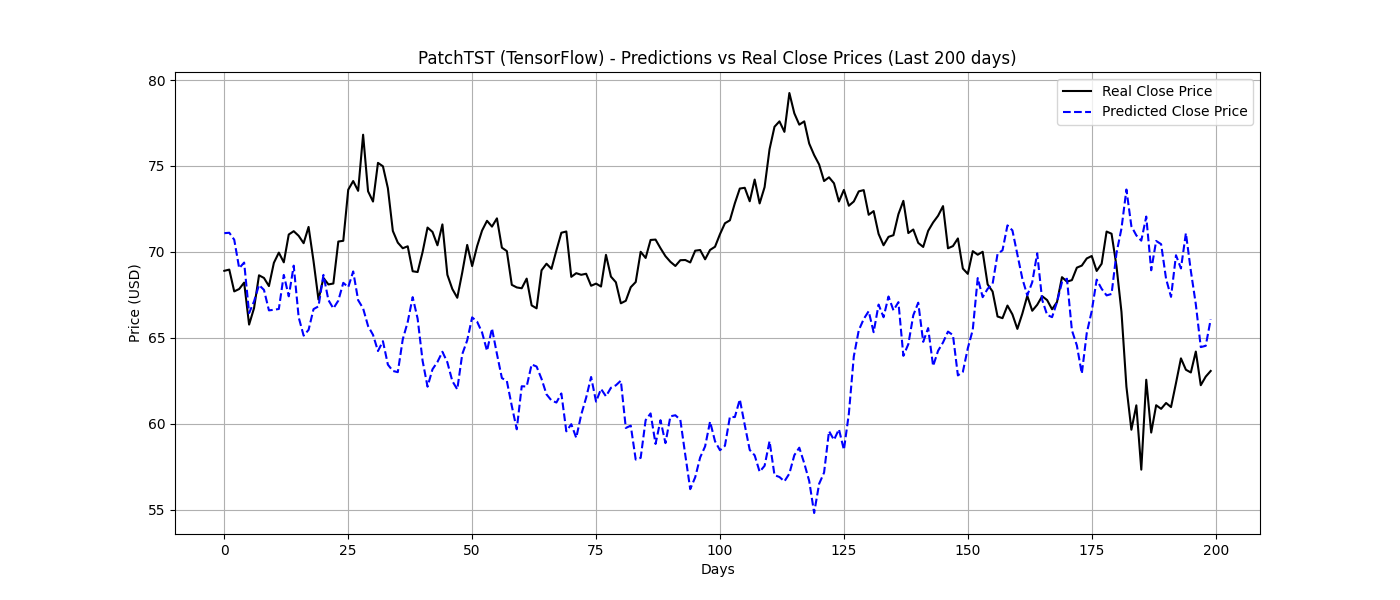
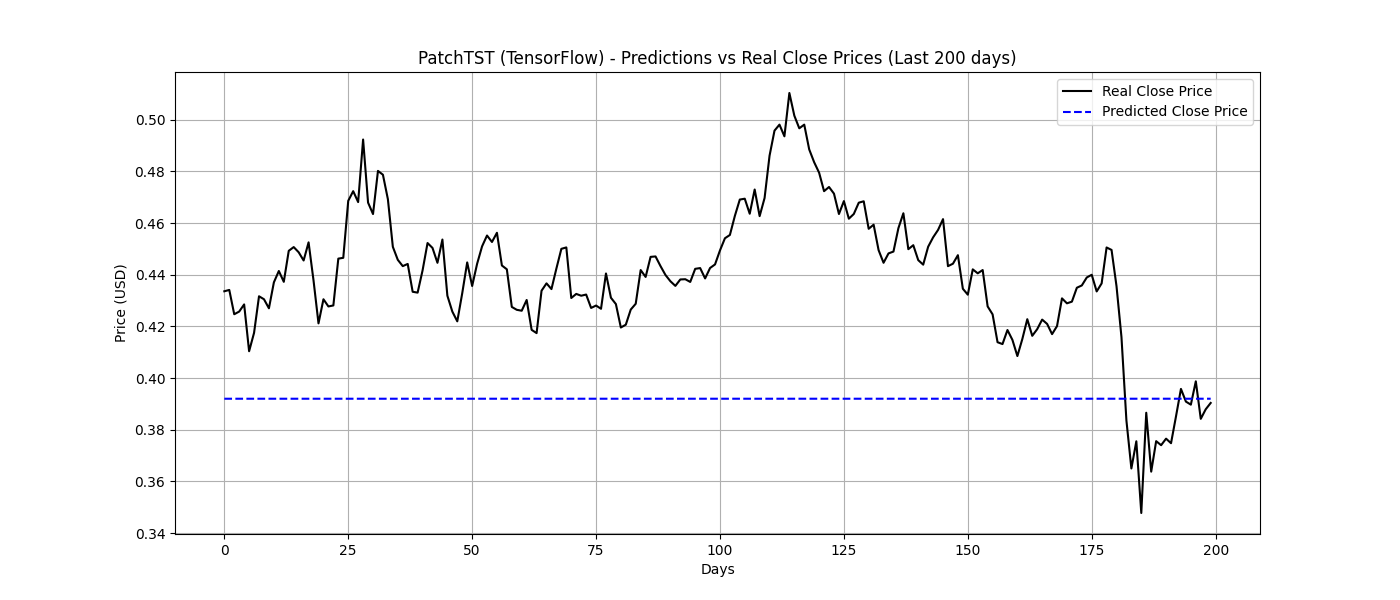
taking all over again

diff --git a/train_patchtst_tf.py b/train_patchtst_tf.py
@@ -6,14 +6,17 @@ import pickle
 import matplotlib.pyplot as plt
 from sklearn.preprocessing import MinMaxScaler
 from patchtst_tf_model import PatchTST, PatchEmbedding, TransformerEncoder
+from datetime import datetime
 
 # --------- CONFIGURACIÓN EXPERIMENTO ---------
-patch_len = 25
+patch_len = 15
 embed_dim = 512
-n_layers = 5
-dropout_rate = 0.3
-batch_size = 128
+n_layers = 4
+dropout_rate = 0.0
+batch_size = 64
 epochs = 30
+
+exp_num=9
 
 # Paths
 csv_path = "OIL_CRUDE/Id90/DataSet_lastPoppingColums.csv"
@@ -30,15 +33,20 @@ all_columns = df.columns.tolist()
 input_cols = all_columns[1:]  # Ignorar Date column
 target_col = 'Close'
 
-# --------- NORMALIZAR INPUTS ---------
-scaler = MinMaxScaler()
-df[input_cols] = scaler.fit_transform(df[input_cols])
+# --------- NORMALIZAR INPUTS Y TARGET ---------
+input_scaler = MinMaxScaler()
+df[input_cols] = input_scaler.fit_transform(df[input_cols])
 
-# Guardar scaler
+target_scaler = MinMaxScaler()
+df[[target_col]] = target_scaler.fit_transform(df[[target_col]])
+
+# Guardar scalers
 os.makedirs(os.path.dirname(scaler_save_path), exist_ok=True)
-with open(scaler_save_path, 'wb') as f:
-    pickle.dump(scaler, f)
-print(f"Scaler saved to: {scaler_save_path}")
+with open("Models/scaler_inputs.pkl", 'wb') as f:
+    pickle.dump(input_scaler, f)
+with open("Models/scaler_target.pkl", 'wb') as f:
+    pickle.dump(target_scaler, f)
+print("Scalers saved to: Models/scaler_inputs.pkl and scaler_target.pkl")
 
 # --------- PREPARAR DATA X, y ---------
 Seq_len = 80
@@ -68,19 +76,28 @@ model(dummy_input)
 
 model.compile(
     optimizer=tf.keras.optimizers.Adam(learning_rate=1e-3),
-    loss='mse',
+    loss='mae',
     metrics=['mae']
 )
 model.summary()
 
+
+fecha = datetime.now().strftime("%Y-%m-%d %H:%M:%S")
+
+os.makedirs(model_save_dir, exist_ok=True)
+
+"""if os.path.exists(experiments_log):
+    old = pd.read_csv(experiments_log)
+    exp_num = len(old) + 1
+else:
+    exp_num = 1"""
+
 # Model save path
-model_save_path = os.path.join(model_save_dir, f"best_patchtst_patch{patch_len}_embed{embed_dim}.keras")
+model_save_path = os.path.join(model_save_dir, f"patchtst_exp{exp_num}")
 
 # --------- CALLBACKS ---------
 callbacks = [
-    tf.keras.callbacks.EarlyStopping(patience=3, restore_best_weights=True),
-    tf.keras.callbacks.ModelCheckpoint(model_save_path, save_best_only=True),
-    tf.keras.callbacks.ReduceLROnPlateau(factor=0.5, patience=3)
+    tf.keras.callbacks.EarlyStopping(patience=3, restore_best_weights=True)
 ]
 
 # --------- ENTRENAR ---------
@@ -91,17 +108,15 @@ history = model.fit(
     callbacks=callbacks
 )
 
+model.export(model_save_path)
+
 # --------- EVALUACIÓN DIRECCIÓN ---------
 # Predicciones validación
 val_preds = model.predict(X_val)
 
 # Inverse transform
-close_idx = input_cols.index('Close')
-close_min = scaler.data_min_[close_idx]
-close_max = scaler.data_max_[close_idx]
-
-val_preds_real = val_preds.flatten() * (close_max - close_min) + close_min
-val_reals_real = y_val * (close_max - close_min) + close_min
+val_preds_real = target_scaler.inverse_transform(val_preds)
+val_reals_real = target_scaler.inverse_transform(y_val.reshape(-1, 1))
 
 # Direcciones
 pred_dirs = np.sign(val_preds_real[1:] - val_preds_real[:-1])
@@ -121,9 +136,11 @@ print(f"RMSE: {rmse:.4f}")
 print(f"Precisión Dirección: {direction_accuracy*100:.2f}%")
 
 # --------- GUARDAR RESULTADO EXPERIMENTO ---------
-os.makedirs(model_save_dir, exist_ok=True)
+
 
 exp_data = pd.DataFrame([{
+    "Experimento": exp_num,
+    "Fecha": fecha,
     "Patch_len": patch_len,
     "Embed_dim": embed_dim,
     "N_layers": n_layers,
@@ -152,5 +169,5 @@ plt.xlabel('Epoch')
 plt.ylabel('MSE Loss')
 plt.legend()
 plt.grid()
-plt.savefig(f"Plots/training_loss_patchtst_patch{patch_len}_embed{embed_dim}.png")
+plt.savefig(f"Plots/training_loss_exp{exp_num}.png")
 plt.show()

diff --git a/evaluate_patcht_Tf.py b/evaluate_patcht_Tf.py
@@ -7,28 +7,29 @@ import pickle
 from sklearn.preprocessing import MinMaxScaler
 from patchtst_tf_model import PatchTST, PatchEmbedding, TransformerEncoder
 
+exp=9
 # --------- CONFIGURACIÓN ---------
-model_path = "Models/best_patchtst_tf.keras"
-scaler_save_path = "Models/scaler_inputs.pkl"
+model_path = "Models/patchtst_exp"+str(exp)
+input_scaler_path = "Models/scaler_inputs.pkl"
+target_scaler_path = "Models/scaler_target.pkl"
 csv_path = "OIL_CRUDE/Id90/DataSet_lastPoppingColums.csv"
 Seq_len = 80
 Prediction_days = 200
-save_predictions_path = "Models/predictions_patchtst_tf.csv"
+save_predictions_path = "PreditionEval/predictions_patchtst_exp"+str(exp)+"_tf.csv"
 
 # --------- CARGA MODELO ---------
-model = tf.keras.models.load_model(
-    model_path,
-    compile=False,
-    custom_objects={
-        "Custom>PatchTST": PatchTST,
-        "Custom>PatchEmbedding": PatchEmbedding,
-        "Custom>TransformerEncoder": TransformerEncoder
-    }
-)
+from keras.layers import TFSMLayer
+
+model = tf.keras.Sequential([
+    TFSMLayer(model_path, call_endpoint="serving_default")
+])
 
 # --------- CARGA SCALER ---------
-with open(scaler_save_path, 'rb') as f:
-    scaler = pickle.load(f)
+with open(input_scaler_path, 'rb') as f:
+    input_scaler = pickle.load(f)
+
+with open(target_scaler_path, 'rb') as f:
+    target_scaler = pickle.load(f)
 
 # --------- CARGA DATA ---------
 df = pd.read_csv(csv_path)
@@ -36,7 +37,7 @@ all_columns = df.columns.tolist()
 input_cols = all_columns[1:]  # Ignorar Date column
 
 # Normalizar inputs
-df[input_cols] = scaler.transform(df[input_cols])
+df[input_cols] = input_scaler.transform(df[input_cols])
 
 # --------- PREPARAR DATA ---------
 predictions = []
@@ -46,17 +47,23 @@ for i in range(-(Prediction_days + Seq_len), -Seq_len):
     input_data = df[input_cols].iloc[i:i+Seq_len].values
     input_data = np.expand_dims(input_data, axis=0)  # (1, 80, num_features)
 
-    pred = model.predict(input_data, verbose=0)
+    pred_value = model.predict(input_data, verbose=0)
+
+    # Extraer el valor real del diccionario si es necesario
+    if isinstance(pred_value, dict):
+        pred_array = list(pred_value.values())[0]
+    else:
+        pred_array = pred_value
+
+    pred = pred_array.flatten()[0]
+    print(f"Pred normalizado: {pred}")
 
     # Inverse transform prediction
-    pred_close_scaled = np.zeros((1, len(input_cols)))
-    pred_close_scaled[0, input_cols.index('Close')] = pred.flatten()[0]
-    pred_close_real = scaler.inverse_transform(pred_close_scaled)[0, input_cols.index('Close')]
-
+    pred_close_real = target_scaler.inverse_transform([[pred]])[0][0]
+    print(f"Predicción en escala real: {pred_close_real}")
     # Inverse transform real close
-    real_input_scaled = np.zeros((1, len(input_cols)))
-    real_input_scaled[0, :] = df[input_cols].iloc[i + Seq_len].values
-    real_close_real = scaler.inverse_transform(real_input_scaled)[0, input_cols.index('Close')]
+    real_close_real = target_scaler.inverse_transform(
+        [[df['Close'].iloc[i + Seq_len]]])[0][0]
 
     predictions.append(pred_close_real)
     real_prices.append(real_close_real)

diff --git a/predict_patchtst.py b/predict_patchtst.py
@@ -5,7 +5,7 @@ import pickle
 from patchtst_tf_model import PatchTST, PatchEmbedding, TransformerEncoder
 
 # Configuration
-model_path = "Models/best_patchtst_tf.keras"
+model_path = "Models/best_patchtst_patch30_embed512.keras"
 scaler_path = "Models/scaler_inputs.pkl"
 csv_path = "OIL_CRUDE/Id90/DataSet_lastPoppingColums.csv"
 Seq_len = 80
@@ -39,13 +39,12 @@ input_data = np.expand_dims(input_data, axis=0)  # Shape (1, 80, num_features)
 
 # Predict
 prediction = model.predict(input_data, verbose=0)
-predicted_scaled = prediction.flatten()[0]
 
-# Reverse scale only the 'Close' column
-close_idx = input_cols.index('Close')  # Index of Close in input columns
-close_min = scaler.data_min_[close_idx]
-close_max = scaler.data_max_[close_idx]
+# Reverse scale using scaler
+predicted_scaled = prediction.flatten()
+full_input = np.zeros((1, len(input_cols)))
+full_input[0, input_cols.index('Close')] = predicted_scaled[0]
 
-predicted_real = predicted_scaled * (close_max - close_min) + close_min
+predicted_real_close = scaler.inverse_transform(full_input)[0, input_cols.index('Close')]
 
-print(f"Predicted Close Price for Next Day: {predicted_real:.2f} USD")
+print(f"Predicted Close Price for Next Day: {predicted_real_close:.2f} USD")

diff --git a/patchtst_tf_model.py b/patchtst_tf_model.py
@@ -66,6 +66,6 @@ class PatchTST(tf.keras.Model):
         return self.head(x)
 
 # Example to instantiate
-# model = PatchTST(seq_len=80, patch_len=25, input_dim=12)
+# model = PatchTST(seq_len=80, patch_len=25, input_dim=12, dropout_rate=0.3)
 # output = model(tf.random.normal((8, 80, 12)))
 # print(output.shape)  # -> (8, 1)
